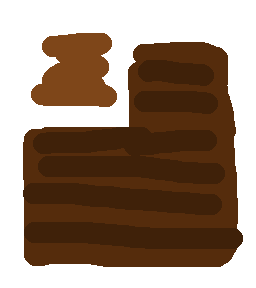
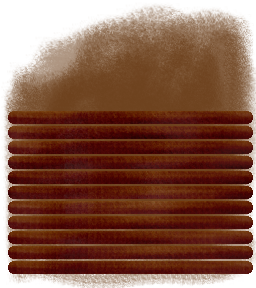
Updates sprites for woodcutter and farm

diff --git a/crown/SpriteSheets/buildingAtlas.cs b/crown/SpriteSheets/buildingAtlas.cs
@@ -4,7 +4,7 @@
  * Contains references to each image within the sprite sheet.
  *
  * http://www.codeandweb.com/texturepacker
- * $TexturePacker:SmartUpdate:e09c2f5c408bb2f929d4c4a3033a7457:f9f352d2d300a5e4877807ae0fe5a34a:905072b72ea92acf8fa5b0216a681f3c$
+ * $TexturePacker:SmartUpdate:89990885698613abe9e0941cc5dedf66:8fd075a2104b32efa374d43c62638788:905072b72ea92acf8fa5b0216a681f3c$
  *
  */
 namespace TexturePackerMonoGameDefinitions
